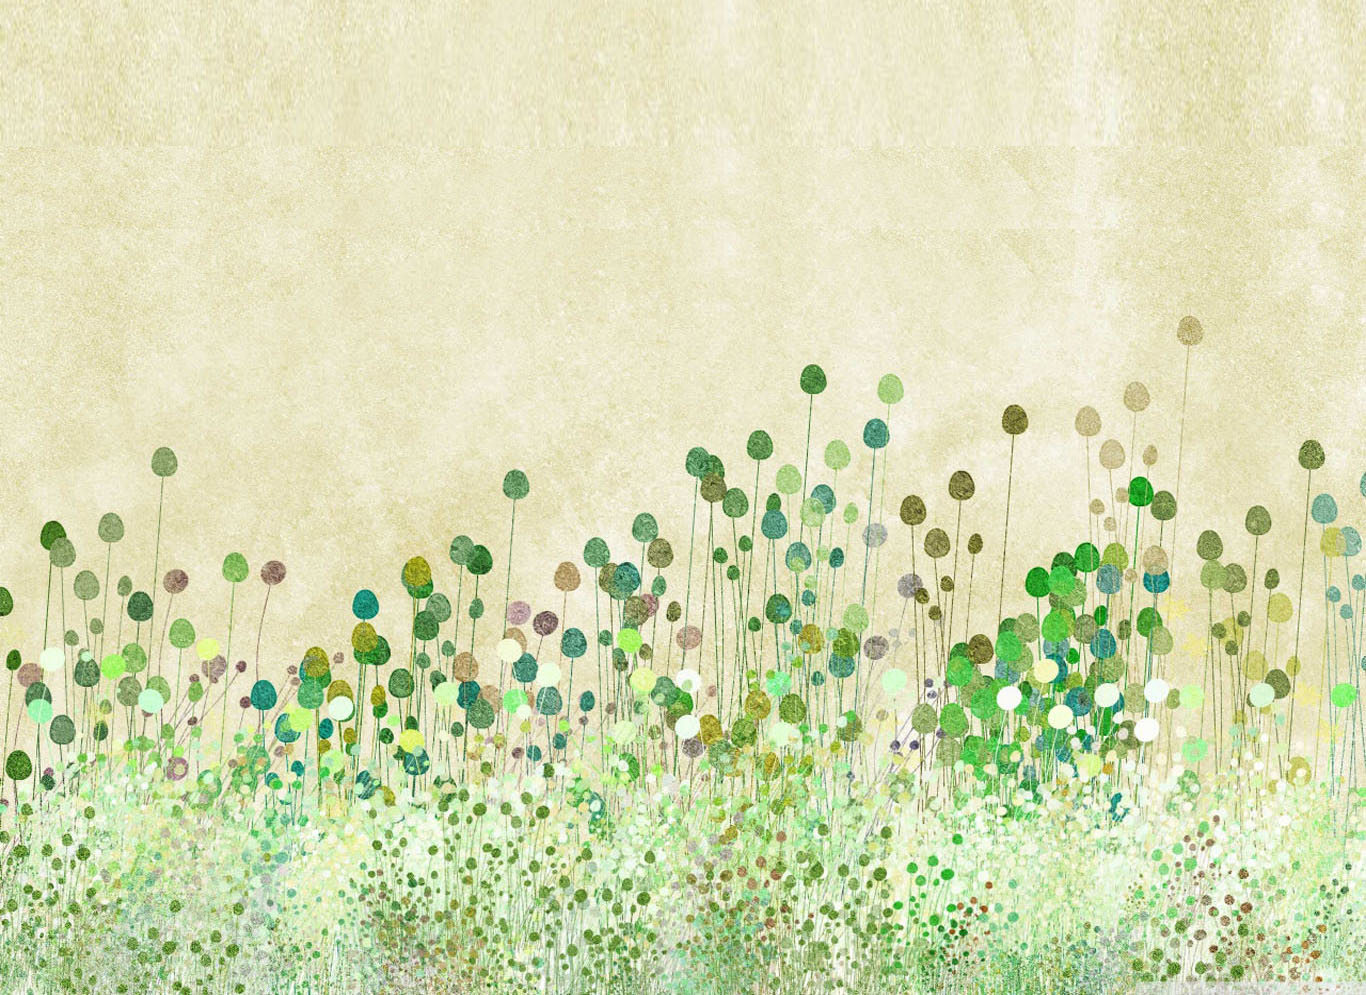
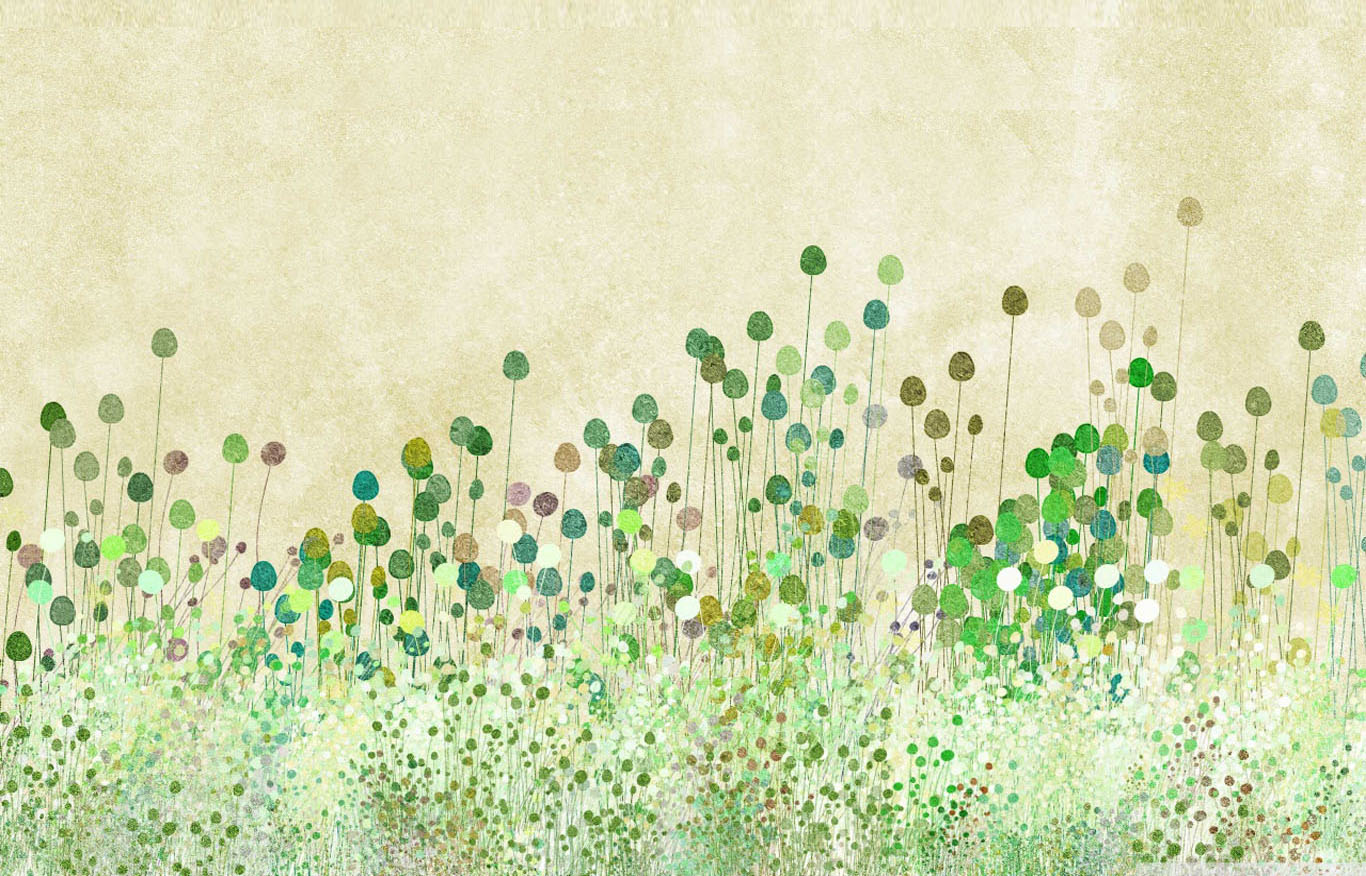
correccion de fondo

diff --git a/css/style.css b/css/style.css
@@ -5,10 +5,11 @@
 }
 
 body {
-    background: url('../img/fondo2.jpg');
+    background: url('../img/fondo3.jpg');
     background-repeat: no-repeat;
     background-attachment: fixed;
     width: 100%;
+    /* background-size: contain; */
 }
 
 .bgStyle {

diff --git a/docs/css/style.css b/docs/css/style.css
@@ -5,10 +5,11 @@
 }
 
 body {
-    background: url('../img/fondo2.jpg');
+    background: url('../img/fondo3.jpg');
     background-repeat: no-repeat;
     background-attachment: fixed;
     width: 100%;
+    /* background-size: contain; */
 }
 
 .bgStyle {
